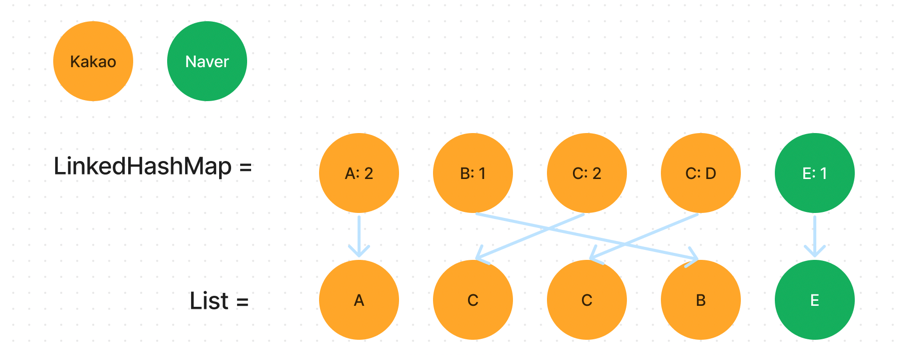
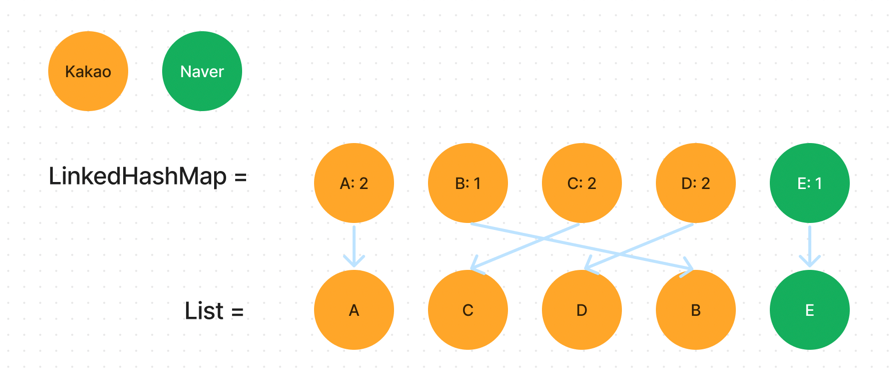
[수정] README.md 수정
- 잘못된 이미지 변경
- 문장 개선

diff --git a/README.md b/README.md
@@ -2,10 +2,10 @@
 
 ## 테스트 방법
 
-1. 필요한 환경변수 값은 미리 세팅되어 있어요. 바로 서버를 실행하시면 됩니다.
+1. 필요한 환경변수 값은 미리 세팅되어 있습니다. 바로 서버를 실행하실 수 있습니다.
 2. API 요청은 인텔리제이를
    사용하신다면 [place-api.http](https://github.com/httpstatus200/search/blob/main/place-api.http) 에서
-   테스트하실 수 있어요. Intellij 환경이 아니시라면 아래 cURL 명령어를 활용하시면 됩니다.
+   테스트하실 수 있습니다. Intellij 환경이 아니시라면 아래 cURL 명령어를 활용하실 수 있습니다.
    > //주석에 첨부한 응답 결과는 시간이 지나 네이버, 카카오 응답 데이터 변경으로 바뀔 수 있습니다.
    >
    > // 빈쿼리  
@@ -76,10 +76,8 @@
 2) Query Log System 은 큐에서 로그를 받아 저장한다.
 3) 주기적으로 실행되는 워커에서 로그를 읽어서 키워드별로 카운팅 후 DB에 저장한다.
 
-이렇게 개선하면 DB I/O 횟수를 줄이고 병목현상을 해결할 수 있습니다. 또한 저장되는 로그를 활용해서 추가되는 요구사항에 대응하기 쉬워집니다. (e.g 날짜별 인기 검색어,
-검색
-로그
-기록)
+이렇게 개선하면 DB I/O 횟수를 줄이고 병목현상을 해결할 수 있습니다. 또한 저장되는 로그를 활용해서 추가되는 요구사항에 대응하기 쉬워집니다.
+(e.g 날짜별 인기 검색어, 검색 로그 기록)
 
 근데 여기서 `왜 메시지 큐와 쿼리 로그 시스템을 통해 저장하지?` 라는 의문이 생길 수 있습니다. 이유는 이렇습니다.
 
@@ -89,15 +87,14 @@
 현재 로그는 메모리(List 자료구조)에 저장되고 있습니다. 그리고 워커는 이 로그를 읽고 제거합니다. 이때 데이터 유실이 발생할 수 있기 때문에 로그 저장과 추가 사이에 동기화가
 필요합니다.
 
-동기화를 위해 Lock을 사용합니다. 이때 API에서 직접 입력한다면 등록한다면 Lock으로 인해 병목이 발생할 수 있습니다. 이런 동기화 처리를 비동기로 처리하여 병목구간을
-개선했습니다.
+동기화를 위해 Lock을 사용합니다. 이때 API에서 직접 Store에 데이터를 추가한다면 Lock으로 인해 병목이 발생할 수 있습니다. 이런 동기화 처리를 다른 서비스에서
+비동기로 처리하여 병목구간을 개선했습니다.
 
-> 현재 구현상태는 로그를 메모리에 저장되고 있어서 Lock 때문에 병목이 발생할 가능성은 작습니다. 하지만 File System이나 캐시에 저장하는 걸 목표로 구현하고 있었기
-> 때문에
-> 먼저 이와 같은
-> 구조를 구성했습니다.
+> 현재 구현상태는 로그를 메모리(자바 자료구조)에 저장하고 있어서 Lock 때문에 병목이 발생할 가능성은 작습니다. 하지만 File System이나 캐시에 저장하는 걸 목표로
+> 구현하고 있었기
+> 때문에 먼저 이와 같은 구조를 구성했습니다.
 >
-> 실제 ehcache3에 저장하도록 로직을 변경 후 JMeter로 테스트했을때 아래 결과를 확인할 수 있었습니다.
+> 실제 ehcache3에 저장하도록 로직을 임시로 변경해서 JMeter로 테스트했을때 아래 결과를 확인할 수 있었습니다.
 >
 > <직접 저장>
 > ![direct-save-log](images/direct-save-log.png)
@@ -114,12 +111,12 @@
 개선:  
 두 가지 방법을 사용해서 변경을 최소화할 수 있게 했습니다.
 
-1) 외부 API와 비즈니스 로직 사이에 인터페이스를 사용해서 두 패키지 간에 의존도를 낮췄습니다.
-2) 정렬 로직을 추가에 용이하게 작성했습니다.
+- a) 외부 API와 비즈니스 로직 사이에 인터페이스를 사용해서 두 패키지 간에 의존도를 낮췄습니다.
+- b) 정렬 로직을 API가 추가되는 상황에도 유연하게 작동하도록 작성했습니다.
 
 각 내용을 이어서 자세히 설명하겠습니다.
 
-#### 1) 패키지 설계
+#### a) 패키지 설계
 
 ![external-api-class-def](images/external-api-class-def.png)
 이미지와 같이 비즈니스 로직이 외부 API 로직을 직접 참조하지 않게 설계했습니다. `interface PlaceSearch` 내용은 아래와 같습니다.
@@ -132,9 +129,12 @@ public interface PlaceSearch {
 }
 ```
 
-이렇게 설계하고 Google API를 추가한다면, 동일한 인터페이스를 사용하고 응답 타입을 사용할 수 있어서 `변경 보다는 추가`하는 방향으로 추가할 수 있습니다.
+이렇게 설계하고 Google API를 추가할 때 예상 시나리오는 이렇습니다.
 
-#### 2) 정렬 방식
+1) interface에 맞게 Google API 요청 클래스를 구현한다.
+2) 비즈니스 로직에서 Google API 세부 사항을 알필요 없이 호출한다. 응답은 다른 API와 같은 포맷으로 받을 수 있다.
+
+#### b) 정렬 방식
 
 먼저 API 응답 데이터를 받습니다.
 
@@ -147,8 +147,8 @@ public interface PlaceSearch {
 
 ![sorted-data-by-priority](images/sorted-data-by-priority.png)
 
-그리고 리스트를 순회하며 `LinkedHashMap`에 저장합니다. `LinkedHashMap`는 입력된 순서를 알고있기 때문에 우선순위를 기반으로 정렬된 순서를 유지할 수 있어서
-사용했습니다.
+그리고 리스트를 순회하며 `LinkedHashMap`에 저장합니다. 이때 `LinkedHashMap`은 입력된 순서를 알고있기 때문에 우선순위를 기반으로
+정렬된 순서를 유지할 수 있습니다.
 
 데이터 저장은 데이터 중복여부를 확인하는 키를 만들어서 맵의 키로 사용합니다. 만약 이미 같은 데이터가 들어있다면 추가하지 않고 카운트가 증가합니다.
 
